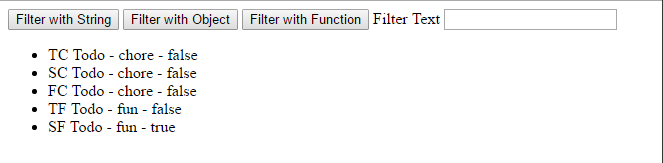
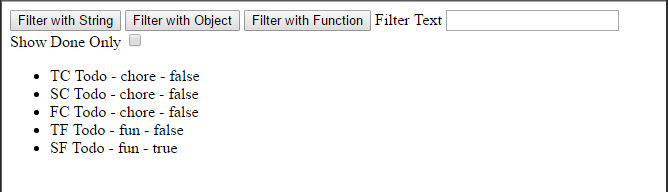
Rewrite

Changed region(s): [[0.0, 0.0, 1.0, 1.0], [0.0302, 0.2761, 0.3017, 0.7055], [0.0302, 0.7362, 0.2715, 0.8282]]

diff --git a/Example-03-filter-arrays/index.html b/Example-03-filter-arrays/index.html
@@ -24,8 +24,15 @@
         Filter Text
         <input type="text"
                 ng-model="ctrl.filterOptions['string']">
+        Show Done Only
+        <input type="checkbox"
+                ng-model="ctrl.filterOptions['object'].done">
         <ul>
-            <li ng-repeat="note in ctrl.notes | filter:ctrl.filterOptions[ctrl.currentFilter] | orderBy:ctrl.sortOrder | limitTo:5">
+            <li ng-repeat="note in ctrl.notes |
+                            filter:ctrl.filterOptions[ctrl.currentFilter] |
+                            orderBy:ctrl.sortOrder |
+                            limitTo:5"
+                ng-cloak>
                 {{note.label}} - {{note.type}} - {{note.done}}
             </li>
         </ul>
